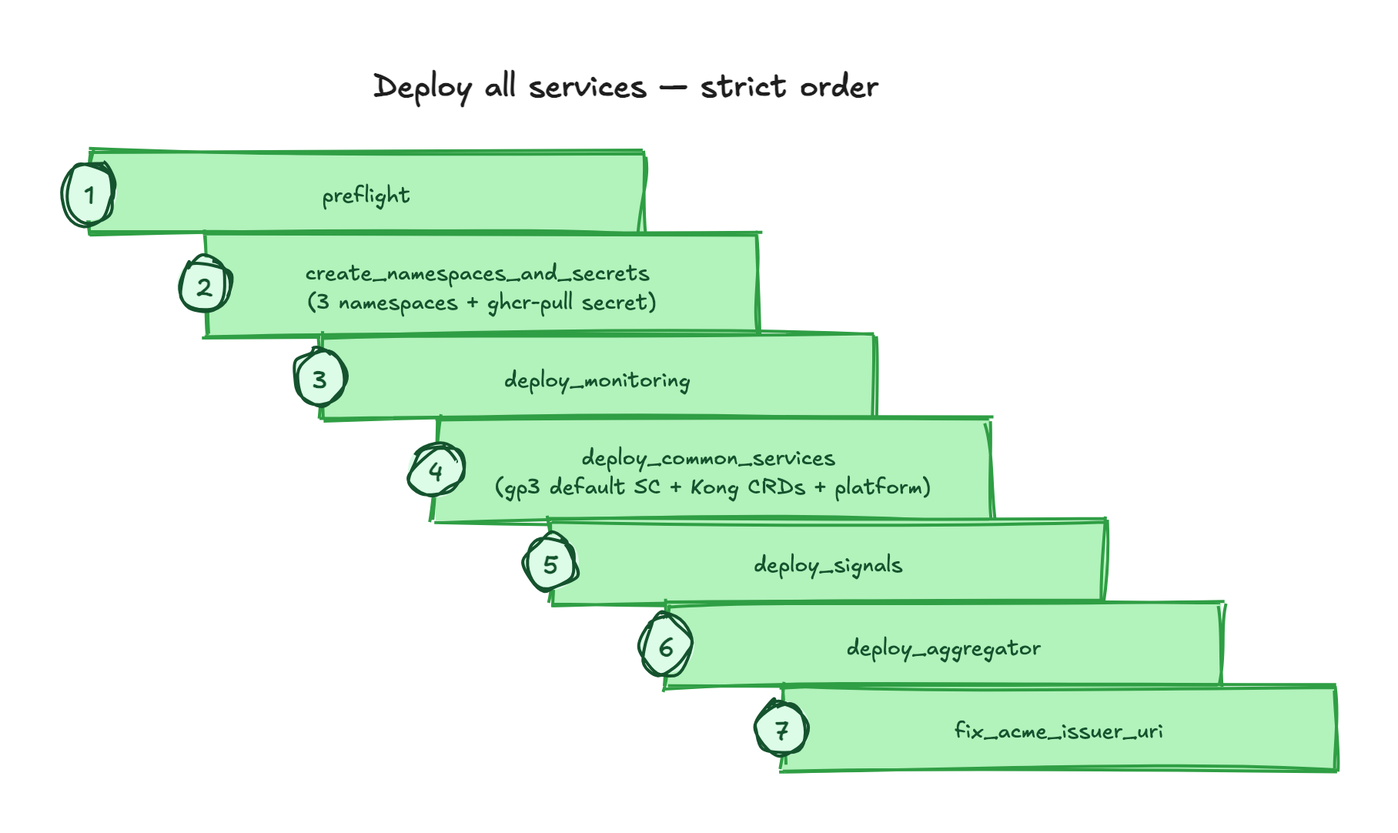
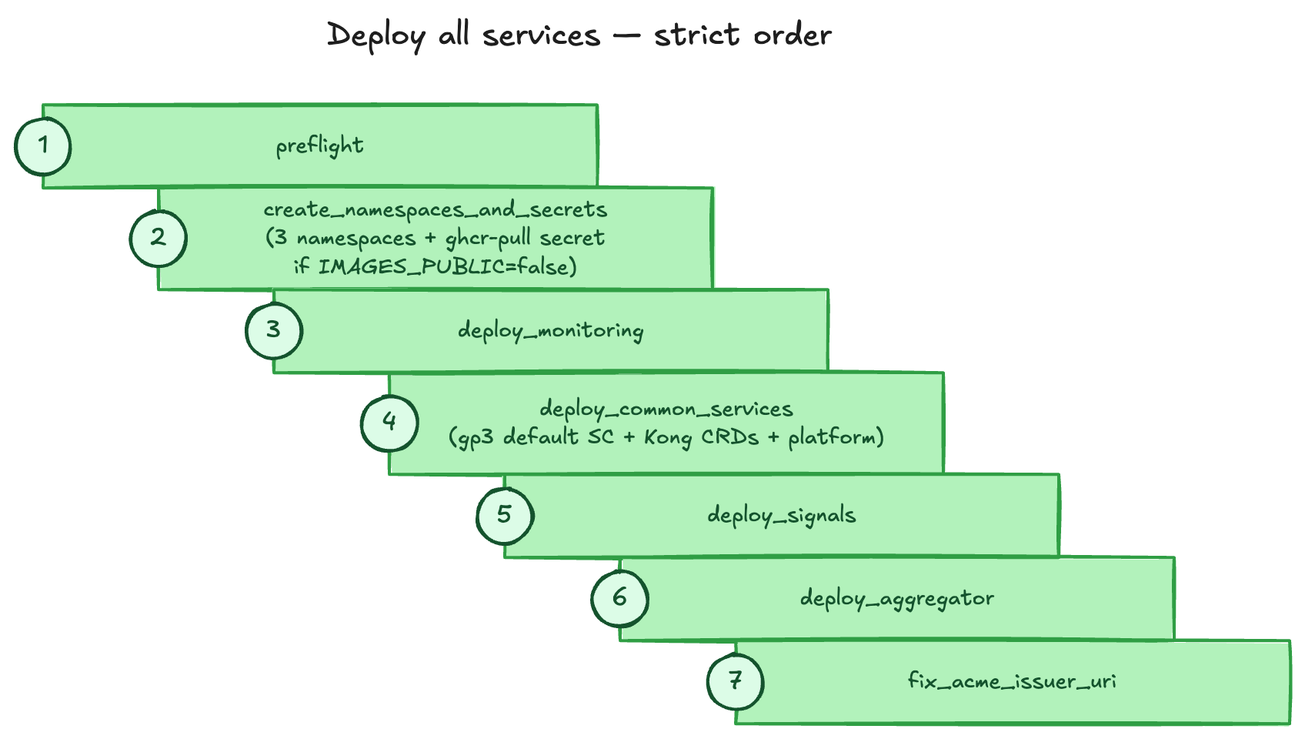
docs: validate against sprint 2026-08-03/14, add notification-service coverage + fix a live GHCR-secret doc bug
Cross-checked all 26 issues the org's GitHub Project sprint marked Done against
current repo state and this doc site's content.

Real, already-live-on-main fixes (not "in progress" — these were just wrong):
- guides/deployment.md + guides/cicd-and-builds.md (incl. its deploy-chain
  diagram) claimed a GHCR pull secret is always required; a hotfix made
  images public by default (IMAGES_PUBLIC=true) over a week ago.

New coverage:
- notification-service was a fully undocumented, already-deployed service
  (only a bare word in infrastructure.md's chart table). New architecture
  page covers its provider auto-discovery, its own distinct HMAC-signing
  service-auth pattern, and its Redis-backed queue — describing the intended
  design only, not the specific unpatched auth-ordering/retry-race issues
  the sprint's bug tickets are actively fixing.

"In progress" additions (real, merged code on develop/feature, confirmed NOT
yet on main — same framing discipline as the Keycloak migration):
- items-actions-events.md: network-configurable per-pair action cap.
- signals-dpg.md: public shareable profile links (omits a v1 minor-gating
  design gap per explicit instruction, since it touches minors' data).
- infrastructure.md: host-retirement mechanism + a migrate-Job Helm-hook
  ordering fix.
- guides/cicd-and-builds.md: SAST/SCA scanning in CI (Trivy/gitleaks/CodeQL).

See docs/superpowers/plans/2026-08-14-sprint-driven-doc-validation.md for the
[…]

Changed region(s): [[0.0, 0.0938, 1.0, 1.0], [0.25, 0.0312, 0.6562, 0.0625]]

diff --git a/docs/superpowers/plans/2026-08-14-sprint-driven-doc-validation.md b/docs/superpowers/plans/2026-08-14-sprint-driven-doc-validation.md
@@ -1,0 +1,91 @@
+# Sprint-Driven Documentation Validation (2026-08-03 → 2026-08-14) — Plan (v2, post round-1 review)
+
+> **For agentic workers:** REQUIRED SUB-SKILL: Use superpowers:subagent-driven-development (recommended) or superpowers:executing-plans to implement this plan task-by-task. Steps use checkbox (`- [ ]`) syntax for tracking.
+
+**Status: approved 2026-08-14, executing.** Builds directly on top of the not-yet-merged `docs/architecture-refresh` branch (PR #13) — this is a second phase of the same overall documentation effort, continuing on the same branch rather than opening a new PR, since several touched files (`identity-and-auth.md`, `infrastructure.md`) were just rewritten there and a fresh branch off `main` would conflict/regress against stale pre-PR#13 content.
+
+**Round-1 review fixes applied:** (1) `notification-service` is a separate GitHub repo, not visible from this workspace by default — cloned to `/private/tmp/claude-501/-Users-mahesh-Code-Blue-Dots/eff860b4-41e1-48b8-af18-df831d8447b5/scratchpad/notification-service` for Task 3's writer to read directly rather than work from the plan's prose alone. (2) `cicd-deploy-chain.excalidraw` bakes the stale GHCR-pull-secret claim into a diagram text element (`id: dc0807x`, reads `"create_namespaces_and_secrets\n(3 namespaces + ghcr-pull secret)"`) — Task 2 now includes an explicit diagram-text fix, not prose-only. (3) The redaction policy now states the correct/intended HMAC ordering explicitly, so writers have real ground truth instead of guessing around a gap. (4) Task 5.1's precedent citation corrected.
+
+**Goal:** GitHub Project "Blue Dots — Delivery" (org project #1), sprint `2026-08-03 to 2026-08-14`, has 26 completed issues. Cross-checked each against current repo state (today, 2026-08-14) and existing/just-drafted `bluedots-docs` content. Found: one already-published doc claim that is now factually wrong on `main` (needs a straight correction), one entirely undocumented deployed service (`notification-service`), and two real shipped features sitting on `develop`/`feature` not yet promoted to `main` (same "in progress" pattern established in the prior phase).
+
+## Findings → disposition
+
+| # | Issue | Verified state | Disposition |
+|---|---|---|---|
+| #423, #488 | Keycloak migration, login bug | Confirmed still dormant, not on `main`. PR #13's existing framing is accurate. | No change — already correct. |
+| #432 | Rate-limit public API | Correctly closed as "Kong handles it, no in-app code" — matches PR #13's existing exclusion. A *different*, unrelated draft PR (#527, failing CI) has real in-app code but is unmerged/unshipped. | No change — still correctly out of scope. |
+| #97, #98, #102 | signals-search dep bumps + embedding versioning | tech-stack.md's version-gap claims still accurate as of today. | No change. |
+| #370, #422 | Network-configurable action-pair cap + CTA behavior | **Real, merged code** (PR #479) on `develop`/`feature`. **Not on `main`.** Config: `max_actions_per_pair` in `network.json` (unset → default 1), enforced via a pair-scoped Postgres advisory lock in `apps/api/src/services/action_pair_cap.ts`; over-cap → `409 ACTION_LIMIT_REACHED`. | **Add**, "in progress" framed (same pattern as Keycloak). |
+| #476 | Shareable profile links + public profile view | Real, on `develop`/`feature`, **not on `main`**. Public unauthenticated route reusing the existing masked public projection (same fields already exposed via map/discover) — no new PII, no signed/opaque token (stable item key, deliberately, since the id is already public), gated to `lifecycle_status='live'` only. | **Add**, "in progress" framed. **User decision 2026-08-14: omit the "no minor-specific gating" v1 design-limitation detail** — don't publish it, even factually, since it concerns minors' data exposure. Document the mechanism only. |
+| #48, #51, #52 | notification-service hygiene epic + 2 bugs | **The service itself is already live on `main`** (deployed as a Signals-chart subchart, referenced bare in `infrastructure.md` today) — only the hygiene/test work and the two bug *fixes* are feature/develop-only. | **Add** a full new architecture page — describes the live service. **Redaction: do NOT mention** issue #51/#52's specific unpatched-on-main bug mechanics (nonce-claimed-before-signature-verified is a live auth-adjacent weakness; the retry-duplication race) or specific CVE'd dependency versions (nodemailer 8.0.5) — describe the intended/designed mechanism (HMAC+nonce request signing, exponential-backoff retry+DLQ) as architecture, not its currently-unpatched edge cases. |
+| #116 | Pre-install migrate hook fix | Real, merged, on `develop`/`feature`, **not `main`**. Generic Helm-hook-ordering mechanism, no brand-specific content. | **Add** one short note to `infrastructure.md`'s deploy-order section, "in progress" framed — low priority, keep brief. |
+| #117 | Retire a public host, keep `/api` served | Real, merged, on `develop`/`feature`, **not `main`**. Generic mechanism: `ui.blockedHosts` + `blockedHostStatusCode`/`blockedHostMessage` in Helm values; a Kong `request-termination` plugin blocks `/` while `/api` keeps resolving. No specific hostnames referenced. | **Add** to `infrastructure.md`, "in progress" framed. |
+| #125 | GHCR pull secret optional | **Already merged to `main`** (hotfix PR #129, 2026-08-11) — this is CURRENT reality, not in-progress. Toggle: `IMAGES_PUBLIC` env var, **default `true`** (no pull secret created). | **Fix now** — `guides/deployment.md:26` currently says a GHCR PAT is "Also required" (now wrong); `guides/cicd-and-builds.md:82` describes `create_namespaces_and_secrets` as unconditionally creating the `ghcr-pull` secret (now wrong). Straight corrections, not "in progress" callouts. |
+| #300 | SAST/SCA in CI (all repos) | Real, landed (`bluedots-automation/.github/workflows/security-scan.yml`, PR #120) on `develop`/`feature`, **not `main`**. Per-repo callers still pinned `@feature`. Tools: Trivy (fs+image scan), gitleaks (opt-in, secrets), CodeQL (default setup, separate from the reusable workflow), plus report-only `pnpm audit`/`uv-secure`. All report-only (`block: false`) today. | **Add** to `guides/cicd-and-builds.md`, "in progress" framed (still `@feature`-pinned, not on `main`). |
+
+## Redaction policy (extends the existing PR #13 policy — same public-docs site)
+
+In addition to the existing policy (no PR numbers/branch names/script filenames/brand-deployment-specific values/unpatched-security-posture specifics):
+- **No minor-gating detail** for the shareable-profile-links feature (user decision above).
+- **No notification-service bug mechanics** for #51/#52 — describe the intended design, not the specific ordering bug or race condition that's still unpatched on `main`. **The correct, intended design to describe** (safe to state plainly — this is normal request-signing architecture, not a vulnerability disclosure): a request is authenticated by first verifying the HMAC-SHA256 signature over the request, and only once the signature is valid is the nonce checked/claimed for replay protection. Do not describe (and do not imply by ordering in prose) the current unpatched-on-`main` behavior where the nonce is claimed before the signature is checked, and do not mention the retry-duplication race in `popScheduledRetries` at all — describe the queue's retry mechanism (delayed retries via a scored set, atomic claim-and-remove) as how it's designed to work.
+- **No specific CVE'd dependency versions** (e.g. nodemailer 8.0.5) — if a tech-stack fact needs a version, use the safe/patched one already documented elsewhere, or omit the number entirely and describe the library by name only.
+- **No stale-image/broken-CI-trigger detail** for notification-service (the fact that `:latest`/`main`'s published image predates several fixes due to a CI trigger-glob bug) — this is operational trivia, not architecture, and edges toward "here's a stale-image gap to exploit."
+
+## Work items
+
+### Corrections to already-published content (current `main` reality — not "in progress")
+
+- [ ] **Task 1 — Fix `guides/deployment.md`** (GHCR pull secret claim)
+  **Files:** Modify `src/content/docs/guides/deployment.md`.
+  Line ~26 currently states a GHCR PAT is "Also required." Correct to: images are public by default (`IMAGES_PUBLIC=true`, the default), so no pull secret is created; set `IMAGES_PUBLIC=false` to restore the PAT-gated behavior for private images.
+
+- [ ] **Task 2 — Fix `guides/cicd-and-builds.md`** (pull-secret claim, incl. its diagram + add SAST/SCA section)
+  **Files:** Modify `src/content/docs/guides/cicd-and-builds.md`; Modify `src/assets/diagrams/cicd-deploy-chain.excalidraw` + `.png`.
+  1. Correct the `create_namespaces_and_secrets`/deploy-chain description in prose: the `ghcr-pull` secret is created only when `IMAGES_PUBLIC=false`; default behavior creates no pull secret.
+  2. **The stale claim is also baked into the diagram itself**, not just prose — `cicd-deploy-chain.excalidraw`'s text element `id: dc0807x` currently reads `"create_namespaces_and_secrets\n(3 namespaces + ghcr-pull secret)"`. Edit that text to `"create_namespaces_and_secrets\n(3 namespaces + ghcr-pull secret\nif IMAGES_PUBLIC=false)"` (or equally clear rewording), re-export the PNG at the same path so the image doesn't contradict the corrected prose. Use the same excalidraw.com export technique from the prior phase (see [[reference_excalidraw_headless_export_technique]] if available, or drive `mcp__chrome-devtools__*` against excalidraw.com directly) — this is a single text-element edit, not a new diagram, so it should be quick.
+  3. Add a new "Security scanning in CI" subsection: Trivy (filesystem + image scans), gitleaks (secret scanning, opt-in), CodeQL (via GitHub's default setup, run separately per repo). All report-only today (SARIF uploaded to each repo's Security tab, not build-blocking). Frame as **in progress**: the reusable workflow and per-repo callers exist on `develop`/`feature`, still pinned `@feature`, not yet promoted to `main`.
+
+### New page
+
+- [ ] **Task 3 — Create `core-concepts/architecture/notification-service.md`**
+  **Files:** Create `src/content/docs/core-concepts/architecture/notification-service.md`; Modify `astro.config.mjs` (sidebar entry — place after "Signals Search", before "Aggregator DPG"; it's consumed by Signals-DPG only, no aggregator-dpg reference found).
+  **Source material:** this is a separate GitHub repo, not part of this workspace's usual four — a full clone is available at `/private/tmp/claude-501/-Users-mahesh-Code-Blue-Dots/eff860b4-41e1-48b8-af18-df831d8447b5/scratchpad/notification-service` for the writer to read directly (root `README.md`, `src/app.ts`/`src/server.ts` for routes, `src/lib/providers/index.ts` for auto-discovery, `src/plugins/request-auth.ts` for the auth model, `src/lib/queue.ts`/`src/lib/worker.ts` for the queue) — verify against that clone rather than relying on this plan's prose alone.
+  Content (describes the CURRENT, live-on-main architecture — this service is already deployed, not in-progress): what it is/why (one HTTP endpoint, `POST /notify`, so every DPG can send email/SMS/WhatsApp without knowing the underlying provider); components (Fastify API + an in-process forked worker, `GET /providers` for introspection, `GET /metrics/queue`, `POST /failed/retry` for manual DLQ requeue); the provider auto-discovery mechanism (filesystem convention — a directory per channel exporting a `ProviderDefinition`, no registration code needed; wired today: email via nodemailer/SES or Gmail SMTP, SMS via MSG91, WhatsApp via Twilio); its auth model — a **third, distinct** service-auth pattern alongside Keycloak/Better-Auth/the x-api-key two-header model: HMAC-SHA256 request signing with nonce-based replay protection (design intent, not the specific unpatched ordering issue); the Redis-backed queue (custom primitives — realtime/other priority lists + a delayed-retry sorted set + a DLQ list, not BullMQ; exponential backoff on failure); its relationship to Signals-DPG's `packages/notification` (a thin HTTP client, not a shared library — Signals-DPG's `dispatch_email.ts` funnels all outbound email through it); its own dedicated Redis (no shared datastore with Signals-DPG, HTTP-only coupling); deploy as a Signals-chart subchart.
+
+### Updated pages
+
+- [ ] **Task 4 — Expand `tech-stack.md`**
+  **Files:** Modify `src/content/docs/core-concepts/technical/tech-stack.md`.
+  Add a short "Other services" note (not a 4th table column — would overcrowd the at-a-glance table) covering notification-service's stack: Fastify, `ioredis` (custom Redis primitives, not BullMQ), Zod-validated provider schemas, its own dedicated Redis instance.
+
+- [ ] **Task 5 — Expand `infrastructure.md`**
+  **Files:** Modify `src/content/docs/core-concepts/architecture/infrastructure.md`.
+  1. Expand the existing bare "notification-service" mention in the chart-deploy table with a one-line description + link to the new architecture page (the cross-link-rather-than-duplicate pattern already used in `high-level-architecture.mdx` and `guides/configuration.md` from the prior phase — not, as an earlier draft of this plan mis-cited, an existing link in the chart table itself).
+  2. Add an "In progress" note for #117 (host retirement): `ui.blockedHosts`/`blockedHostStatusCode`/`blockedHostMessage` Helm values let an old public hostname stop serving the UI (Kong `request-termination`) while `/api` on the same host keeps resolving — e.g. useful when a unified domain splits into per-participant domains. Not yet on `main`.
+  3. Add a brief "In progress" note for #116: the Signals migrate Job is moving from a post-install to a `pre-install`/`pre-upgrade` Helm hook, fixing a deadlock on from-scratch installs (`helm upgrade --wait` blocks post-install hooks until every resource is Ready, but the api can't become Ready without the schema the hook would create). Not yet on `main`.
+  4. **Fix** the GHCR pull-secret claim if `infrastructure.md` implies one is always required anywhere (verify while editing; research found the direct claims live in `guides/deployment.md`/`guides/cicd-and-builds.md`, but double-check this file too) — same correction as Tasks 1/2, current-`main` fact, not in-progress.
+
+- [ ] **Task 6 — Add action-pair-cap section to `core-concepts/items-actions-events.md`**
+  **Files:** Modify `src/content/docs/core-concepts/items-actions-events.md` (read it first for structure/tone).
+  Add an "In progress" section: a network can configure `max_actions_per_pair` (in `network.json`; unset defaults to **1**) capping how many `apply`/`connect` actions may exist between the same two items — enforced server-side, bidirectionally, sharing one budget across action types; exceeding it returns `409 ACTION_LIMIT_REACHED`. Not yet on `main`.
+
+- [ ] **Task 7 — Add public-profile-links section to `core-concepts/architecture/signals-dpg.md`**
+  **Files:** Modify `src/content/docs/core-concepts/architecture/signals-dpg.md`.
+  Add an "In progress" section (same pattern as the existing `item_metrics` section added in the prior phase — place nearby): a profile can be shared via a public, unauthenticated link; it reuses the same masked public projection already exposed via map/discover (no new PII), uses the item's existing id directly (not a signed/opaque token — the id is already public via the existing fetch paths, so this exposes nothing new), and only resolves for `lifecycle_status='live'` items (anything else renders a generic "unavailable" page, never a raw error). **Do not** mention the minor-gating decision — omitted per user instruction.
+
+- [ ] **Task 8 — Add a brief notification-service auth mention to `identity-and-auth.md`**
+  **Files:** Modify `src/content/docs/core-concepts/architecture/identity-and-auth.md`.
+  One short paragraph/section noting a third service-auth pattern exists for notification-service (HMAC request signing + nonce replay protection), cross-linking to the new `notification-service.md` page for the full mechanism rather than duplicating it.
+
+## Execution plan
+
+1. Continue on the existing `docs/architecture-refresh` branch (already checked out, PR #13 open) — do not create a new branch.
+2. One critic review pass over this plan (lighter-weight than the prior phase's 3 rounds — smaller, more surgical scope; escalate to a second round only if the first surfaces something structurally wrong).
+3. Parallel writer agents, non-overlapping file groups:
+   - Group A: Task 3 (notification-service.md, new) + Task 4 (tech-stack.md) + Task 8 (identity-and-auth.md).
+   - Group B: Task 1 + Task 2 (deployment.md + cicd-and-builds.md corrections/additions, including the `cicd-deploy-chain.excalidraw`/`.png` diagram text fix).
+   - Group C: Task 5 (infrastructure.md).
+   - Group D: Task 6 (items-actions-events.md) + Task 7 (signals-dpg.md).
+4. `pnpm build` to confirm no broken links/404s.
+5. Final review agent over the diff (same checks as before: cross-file consistency, redaction-policy compliance including the new items above, factual spot-checks, Today/In-progress framing discipline).
+6. Commit, push to the existing PR #13 branch, update the PR description to reflect the expanded scope.

diff --git a/src/content/docs/core-concepts/architecture/notification-service.md b/src/content/docs/core-concepts/architecture/notification-service.md
@@ -1,0 +1,55 @@
+---
+title: Notification Service Architecture
+description: Internals of notification-service — the provider-agnostic email/SMS/WhatsApp dispatcher used by Signals-DPG.
+sidebar:
+  order: 2.7
+---
+
+**notification-service** is a small, standalone Fastify service that gives every DPG in the ecosystem one HTTP endpoint — `POST /notify` — for sending email, SMS, and WhatsApp messages without knowing which underlying provider handles a given channel. It is a separate deployable service, not a package inside Signals-DPG's monorepo, and is already live in production today.
+
+## Components
+
+- **API process** — a Fastify app (`src/app.ts`) registering the routes below. Started from `src/server.ts`.
+- **Background worker** — `src/server.ts` forks a dedicated worker process in-process on API startup; the worker owns the queue consume loop and never runs inside a request handler.
+- **`POST /notify`** — enqueues a notification job. Validates the request against the target provider's own Zod schema, applies a short dedupe window (keyed by `channel:to:template_id` unless the caller supplies `dedupe_id`), and returns a `job_id` immediately — sending is always asynchronous.
+- **`GET /providers`, `GET /providers/:name`** — introspection: lists every auto-discovered provider along with its template keys, a JSON Schema for its `variables` payload, and complete example `/notify` request bodies. This is how a calling DPG discovers what templates/fields a channel supports without reading this service's source.
+- **`GET /metrics/queue`** — queue depths (realtime, other, retry count, oldest pending retry, DLQ size) for operational visibility.
+- **`POST /failed/retry`** — lets an operator manually requeue jobs sitting in the dead-letter queue, either a specific `job_id` or a batch, resetting the attempt count back to zero.
+
+## Provider auto-discovery
+
+Providers are wired in by filesystem convention, not registration code. Each channel gets its own directory under `src/lib/providers/` (e.g. `email/`, `sms/`, `whatsapp/`) whose `index.ts` exports a single provider definition — a name, a map of public template keys to provider-side template IDs, a Zod schema for the channel's `variables`, and a `send()` function. On startup, `src/lib/providers/index.ts` walks that directory and loads whatever it finds; adding a new channel (e.g. push notifications) means adding a new folder, not touching any central registry.
+
+Currently wired:
+
+- **email** — via a mail provider chosen by configuration (transactional email API or SMTP).
+- **sms** — via MSG91.
+- **whatsapp** — via Twilio.
+
+## Auth model: HMAC request signing
+
+notification-service uses a **third, distinct** service-auth pattern in this ecosystem — alongside Aggregator's Keycloak realm, Signals-DPG's Better-Auth/API-key model, and signals-search's `x-api-key`-only path. Every route requires four signed headers: `X-NS-Key`, `X-NS-Timestamp`, `X-NS-Nonce`, and `X-NS-Signature` (an HMAC-SHA256 over `METHOD\nPATH\nTIMESTAMP\nNONCE`, keyed by a per-caller secret).
+
+By design, a request is authenticated by first verifying the HMAC-SHA256 signature over the request; only once the signature is valid is the nonce checked and claimed for replay protection. A timestamp skew window rejects stale requests before either check runs. See [Identity & Auth](/core-concepts/architecture/identity-and-auth/) for how this pattern fits alongside the ecosystem's other service-auth models.
+
+## The queue
+
+Jobs move through Redis using custom primitives rather than a library like BullMQ:
+
+- **`queue:realtime`** and **`queue:other`** — two Redis lists giving high- and normal-priority jobs separate lanes. The worker loop checks `realtime` first but only blocks briefly, so `other` and due retries are never starved when realtime traffic is quiet.
+- **A delayed-retry set** — failed sends are rescheduled onto a Redis sorted set keyed by the timestamp they next become due, rather than looping immediately; the worker polls this set for due jobs on every loop iteration. Retries use **exponential backoff**.
+- **A dead-letter queue** — once a job exhausts its retry budget it is moved to a DLQ list for operator triage via `GET /metrics/queue` and manual requeue via `POST /failed/retry`.
+
+The worker loop is a single process alternating: one realtime job, then any due retries, then one `other` job, then a short idle sleep when nothing is available.
+
+## Relationship to Signals-DPG
+
+Signals-DPG's `packages/notification` is a **thin HTTP client**, not a shared library — it does not embed any of notification-service's provider or queue logic. Signals-DPG's outbound email funnels through this client, which simply signs and sends a `POST /notify` request to the notification-service deployment.
+
+notification-service also runs against **its own dedicated Redis instance** — it shares no datastore with Signals-DPG. The two services are coupled purely over HTTP.
+
+## Deployment
+
+notification-service is deployed as a **subchart of the Signals Helm chart** in `bluedots-automation`, alongside Signals-DPG's own API/UI and its dedicated Redis.
+
+See [Tech Stack](/core-concepts/technical/tech-stack/) for its runtime stack and [Identity & Auth](/core-concepts/architecture/identity-and-auth/) for how its auth model compares to the rest of the ecosystem.

diff --git a/src/content/docs/guides/cicd-and-builds.md b/src/content/docs/guides/cicd-and-builds.md
@@ -65,7 +65,8 @@ Deployment is driven by `opentofu/aws/<env>/install.sh` — one script for both 
 
 ```bash
 cd opentofu/aws/<env>
-export GHCR_PAT=ghp_xxxxxxxxxxxx          # read:packages — needed to pull private images
+# only needed if IMAGES_PUBLIC=false — public images (the default) need no PAT
+export GHCR_PAT=ghp_xxxxxxxxxxxx          # read:packages
 
 # static checks (install nothing)
 bash install.sh lint        # helm lint all charts
@@ -79,13 +80,15 @@ bash install.sh deploy_all_services
 
 <!-- Editable source: src/assets/diagrams/cicd-deploy-chain.excalidraw — open at https://excalidraw.com to adjust, re-export PNG here. -->
 
-![deploy_all_services runs in strict order: 1 preflight, 2 create_namespaces_and_secrets (3 namespaces + ghcr-pull secret), 3 deploy_monitoring, 4 deploy_common_services (gp3 default SC + Kong CRDs + platform), 5 deploy_signals, 6 deploy_aggregator, 7 fix_acme_issuer_uri](../../../assets/diagrams/cicd-deploy-chain.png)
+![deploy_all_services runs in strict order: 1 preflight, 2 create_namespaces_and_secrets (3 namespaces + ghcr-pull secret if IMAGES_PUBLIC=false), 3 deploy_monitoring, 4 deploy_common_services (gp3 default SC + Kong CRDs + platform), 5 deploy_signals, 6 deploy_aggregator, 7 fix_acme_issuer_uri](../../../assets/diagrams/cicd-deploy-chain.png)
+
+`create_namespaces_and_secrets` always creates the three namespaces; it also creates a `ghcr-pull` image-pull secret from `GHCR_PAT`, but only when `IMAGES_PUBLIC=false`. Images are public by default (`IMAGES_PUBLIC=true`), so by default no pull secret is created and no PAT is required.
 
 See the [Deployment guide](/guides/deployment/) for the full step-by-step and validation, and [Infrastructure & Deployment Architecture](/core-concepts/architecture/infrastructure/) for what each layer is.
 
 ### Scripted / non-interactive runs
 
-For automation (e.g. a future pipeline), the OpenTofu apply functions honour `AUTO_APPROVE=1` for non-interactive `terragrunt apply`, and `GHCR_PAT` can be supplied via the environment instead of an interactive prompt:
+For automation (e.g. a future pipeline), the OpenTofu apply functions honour `AUTO_APPROVE=1` for non-interactive `terragrunt apply`, and (when `IMAGES_PUBLIC=false`) `GHCR_PAT` can be supplied via the environment instead of an interactive prompt:
 
 ```bash
 AUTO_APPROVE=1 GHCR_PAT=ghp_xxx bash install.sh apply_tf_eks
@@ -124,3 +127,17 @@ Never deploy a customer environment from `main` — use that environment's branc
 5. Validate (`helm list -A`, pod health, ingress, TLS) — see the [Deployment guide](/guides/deployment/).
 
 Rollback is the inverse: set the tag back to the previous known-good SHA and re-run the deploy.
+
+## 6. Security scanning in CI
+
+:::note[Not yet on `main`]
+Everything in this section is built and merged, but **not yet promoted to `main`**. The reusable workflow and its per-repo callers exist on `develop`/`feature` across all four repos, still pinned `@feature`. It is documented here so the target setup is visible, not because it's live in production today.
+:::
+
+A shared reusable workflow runs three kinds of security scanning across the repos:
+
+- **Trivy** — both a filesystem scan (dependency manifests) and an image scan (the built container images), run via the reusable workflow.
+- **gitleaks** — secret scanning; opt-in per calling repo rather than enforced everywhere.
+- **CodeQL** — static analysis, but wired separately per repo through GitHub's own default setup rather than as a step inside the reusable workflow.
+
+All three are **report-only** today: findings are uploaded as SARIF to each repo's own **Security** tab, and none of them fail the build or block a merge.

diff --git a/src/content/docs/core-concepts/architecture/infrastructure.md b/src/content/docs/core-concepts/architecture/infrastructure.md
@@ -70,6 +70,8 @@ Three umbrella charts (plus a monitoring chart) deploy in **strict dependency or
 
 The `search` component listed above is itself a subchart at `helm/signals/charts/search/`, with a sibling `search-embeddings` subchart running the TEI (Text Embeddings Inference) server it calls to generate embeddings during ingestion. Unlike the other Signals components, signals-search has no in-process rate limiter of its own — it relies entirely on the Kong ingress layer for rate limiting (see [Ingress & rate limiting: Kong](#ingress--rate-limiting-kong) below).
 
+The `notification-service` component listed above is a single shared HTTP endpoint (`POST /notify`) that every DPG can call to send email/SMS/WhatsApp without knowing the underlying provider. See [Notification Service](/core-concepts/architecture/notification-service/) for its architecture.
+
 ### Deployment topology
 
 <!-- Editable source: src/assets/diagrams/infra-topology.excalidraw — open at https://excalidraw.com to adjust, re-export PNG here. -->
@@ -86,6 +88,14 @@ Keycloak is moving out of the `aggregator` chart into its own top-level chart, `
 <!-- Editable source: src/assets/diagrams/unified-keycloak-target.excalidraw — open at https://excalidraw.com to adjust, re-export PNG here. -->
 
 ![In progress: a single shared Keycloak realm will serve both DPGs plus future integrating DPGs, replacing the standalone aggregator realm](../../../../assets/diagrams/unified-keycloak-target.png)
+:::
+
+:::note[In progress: retiring an old public hostname]
+Helm values `ui.blockedHosts` (a list) plus `blockedHostStatusCode`/`blockedHostMessage` let a previously served public hostname stop serving the Signals UI: a Kong `request-termination` plugin returns the configured status/message for `/` on that host, while `/api` on the same host keeps resolving normally. This is useful when a previously-unified domain splits into separate per-participant domains and the old shared hostname needs to stop serving UI traffic without breaking API clients still pointed at it. Merged on `develop`/`feature`, **not yet on `main`**.
+:::
+
+:::note[In progress: migrate Job moves to a pre-install hook]
+The Signals migrate Job is moving from a post-install to a `pre-install`/`pre-upgrade` Helm hook. `helm upgrade --wait` blocks post-install hooks until every release resource reports Ready, but the Signals API can't become Ready without the schema that migrate job creates — a deadlock on any from-scratch install. Merged on `develop`/`feature`, **not yet on `main`**.
 :::
 
 ## Ingress & rate limiting: Kong

diff --git a/src/content/docs/core-concepts/architecture/signals-dpg.md b/src/content/docs/core-concepts/architecture/signals-dpg.md
@@ -39,6 +39,18 @@ Item tables are **partitioned** in PostgreSQL. Always use the partition-aware qu
 - **Lock semantics.** The default path takes a **non-blocking try-lock**: if another request already holds the lock for that `(aggregator_id, domain)`, the request skips recompute rather than waiting. A `force=true` path instead takes a **blocking** lock, so a caller that needs a guaranteed-fresh result waits for any in-flight recompute to finish.
 - **Directionality.** An action event (e.g. a seeker connecting to a provider) has a source item domain and a target item domain. Metrics are counted from each item's own point of view: the item is `initiated` when its domain is the action's source, and `received` when its domain is the action's target. A same-domain interaction (source domain equals target domain) emits **both** an `initiated` row and a `received` row, since the same item plays both roles at once. Per-item status is evaluated against the combined (`initiated` + `received`) counts, not either direction alone.
 
+## In progress: public shareable profile links
+
+:::note[Not yet in production]
+Everything in this section is built and merged, but **not yet promoted to `main`/production**. It is documented here so the target architecture is visible, not because it's live today.
+:::
+
+A profile item can be shared via a public, unauthenticated link, so it can be viewed without signing in.
+
+- **No new PII.** The public view reuses the same masked public projection already exposed via the existing map/discover flows — the shared link surfaces nothing that wasn't already reachable through those paths.
+- **The link uses the item's existing id directly**, rather than a signed or opaque token. This is a deliberate v1 choice: since the id is already public via the existing fetch paths, embedding it directly in the share link doesn't expose anything new.
+- **Only resolves for live items.** The link only renders a profile when the item's `lifecycle_status` is `live`. Any other state — retired, unknown, or an error — renders a generic "unavailable" page rather than a raw error, so the response never leaks which of those states caused it.
+
 ## Engineering conventions
 
 - **ESM only**, strict TypeScript, no `any`; `import type` for type-only imports.

diff --git a/src/content/docs/core-concepts/items-actions-events.md b/src/content/docs/core-concepts/items-actions-events.md
@@ -37,3 +37,18 @@ A signal lifecycle, in these terms:
 4. An **event** records the outcome — feeding match-quality improvements and district-level impact metrics.
 
 For how items are read locally vs. across the network, and how they are written, see [Read & Write Paths](/core-concepts/technical/read-write-paths/). For the full term list, see the [Glossary](/core-concepts/glossary/).
+
+## In progress: per-pair action cap
+
+:::note[Not yet in production]
+Everything in this section is built and merged, but **not yet promoted to `main`/production**. It is documented here so the target architecture is visible, not because it's live today.
+:::
+
+A network can configure `max_actions_per_pair` in its `network.json` to cap how many open `apply`/`connect` actions may exist between the same two items at once. Left unset, the cap defaults to **1**.
+
+- **One shared budget, not one per action type.** An open `apply` and an open `connect` between the same pair of items count against the same cap — they don't get separate budgets.
+- **Bidirectional.** The cap counts actions between the pair regardless of direction: an open action A→B and an open action B→A count the same, against the same limit.
+- **Enforced server-side**, via a pair-scoped lock so concurrent submissions for the same pair can't race past the cap.
+- Exceeding the cap returns `409 ACTION_LIMIT_REACHED` rather than creating the action.
+
+This is separate from an action's *lifecycle* — once an existing action between the pair resolves (accepted, completed, cancelled, or rejected), the pair frees back up and a fresh action is allowed again.

diff --git a/src/content/docs/guides/deployment.md b/src/content/docs/guides/deployment.md
@@ -23,7 +23,7 @@ For the architecture behind this flow, see [Infrastructure & Deployment Architec
 | `helm` | ≥ 3.12 | install the charts |
 | `bash`, `git` | 4.x / 2.x | run `install.sh`, clone |
 
-Also required: an **AWS account** that can create VPC/EKS/IAM/S3 (plus an S3 bucket for OpenTofu remote state), a **GitHub PAT** with `read:packages` (`GHCR_PAT`) to pull images from GHCR, and **DNS control** for the public hostnames.
+Also required: an **AWS account** that can create VPC/EKS/IAM/S3 (plus an S3 bucket for OpenTofu remote state) and **DNS control** for the public hostnames. Images are public by default (`IMAGES_PUBLIC=true`, the default), so no GHCR pull secret is created and no PAT is needed out of the box; set `IMAGES_PUBLIC=false` to restore PAT-gated pulls for private images, in which case you'll also need a **GitHub PAT** with `read:packages` (`GHCR_PAT`).
 
 `yq` and a Makefile are **not** used — `opentofu/aws/<env>/install.sh` is the single entrypoint for both infrastructure and Helm.
 
@@ -73,6 +73,7 @@ The aggregator's `global.signalstack.actingOrgId` is a **post-Signals** step —
 Deploy in strict dependency order. Either run the whole stack at once, or step through it gating on health.
 
 ```bash
+# only needed for private images (IMAGES_PUBLIC=false) — public images (the default) need no PAT
 export GHCR_PAT=ghp_xxxxxxxxxxxx     # read:packages
 
 # optional static checks (install nothing)

diff --git a/src/content/docs/core-concepts/technical/tech-stack.md b/src/content/docs/core-concepts/technical/tech-stack.md
@@ -23,6 +23,15 @@ All three services are TypeScript-first, though they don't all share the same mo
 
 Signals Search's toolchain also trails the other two repos' shared versions rather than moving in lockstep with them: its TypeScript is two majors behind Signals DPG's, and its Vitest is one major behind.
 
+## Other services
+
+**notification-service** — the provider-agnostic email/SMS/WhatsApp dispatcher described in [Notification Service Architecture](/core-concepts/architecture/notification-service/) — isn't part of the three-repo comparison above, but is worth a brief mention:
+
+- **Fastify** API, same as Signals DPG and Signals Search.
+- Queueing is built on **`ioredis`** with custom Redis primitives (priority lists, a delayed-retry sorted set, a dead-letter list) rather than BullMQ.
+- Provider payloads are validated with **Zod** schemas, one per channel.
+- It runs against its **own dedicated Redis instance** — no datastore is shared with Signals-DPG.
+
 ## Runtime & package management
 
 - **Node ≥ 24** (CI pins Node 24; Node 22 works locally for the Aggregator).

diff --git a/src/content/docs/core-concepts/architecture/identity-and-auth.md b/src/content/docs/core-concepts/architecture/identity-and-auth.md
@@ -38,6 +38,10 @@ Admin endpoints (`/api/v1/admin/*`) additionally require an **`x-acting-org-id`*
 
 signals-search authenticates purely via **`x-api-key`** — it does not send or check `x-acting-org-id` at all. This is a **permanent, known divergence** from the two-header model the other integrating DPGs use (below), not a gap awaiting a fix.
 
+### notification-service: HMAC request signing
+
+notification-service is a **fourth participant** in the ecosystem's auth landscape, using a **third, distinct service-auth pattern** alongside Keycloak, Better-Auth, and the `x-api-key` models above: every route requires a signed request — HMAC-SHA256 over the method/path/timestamp/nonce — with nonce-based replay protection. It shares no session or key store with the other paths. See [Notification Service Architecture](/core-concepts/architecture/notification-service/) for the full mechanism.
+
 ### The two-header service-auth model
 
 When an integrating DPG other than signals-search calls Signals, it presents **two headers**:
